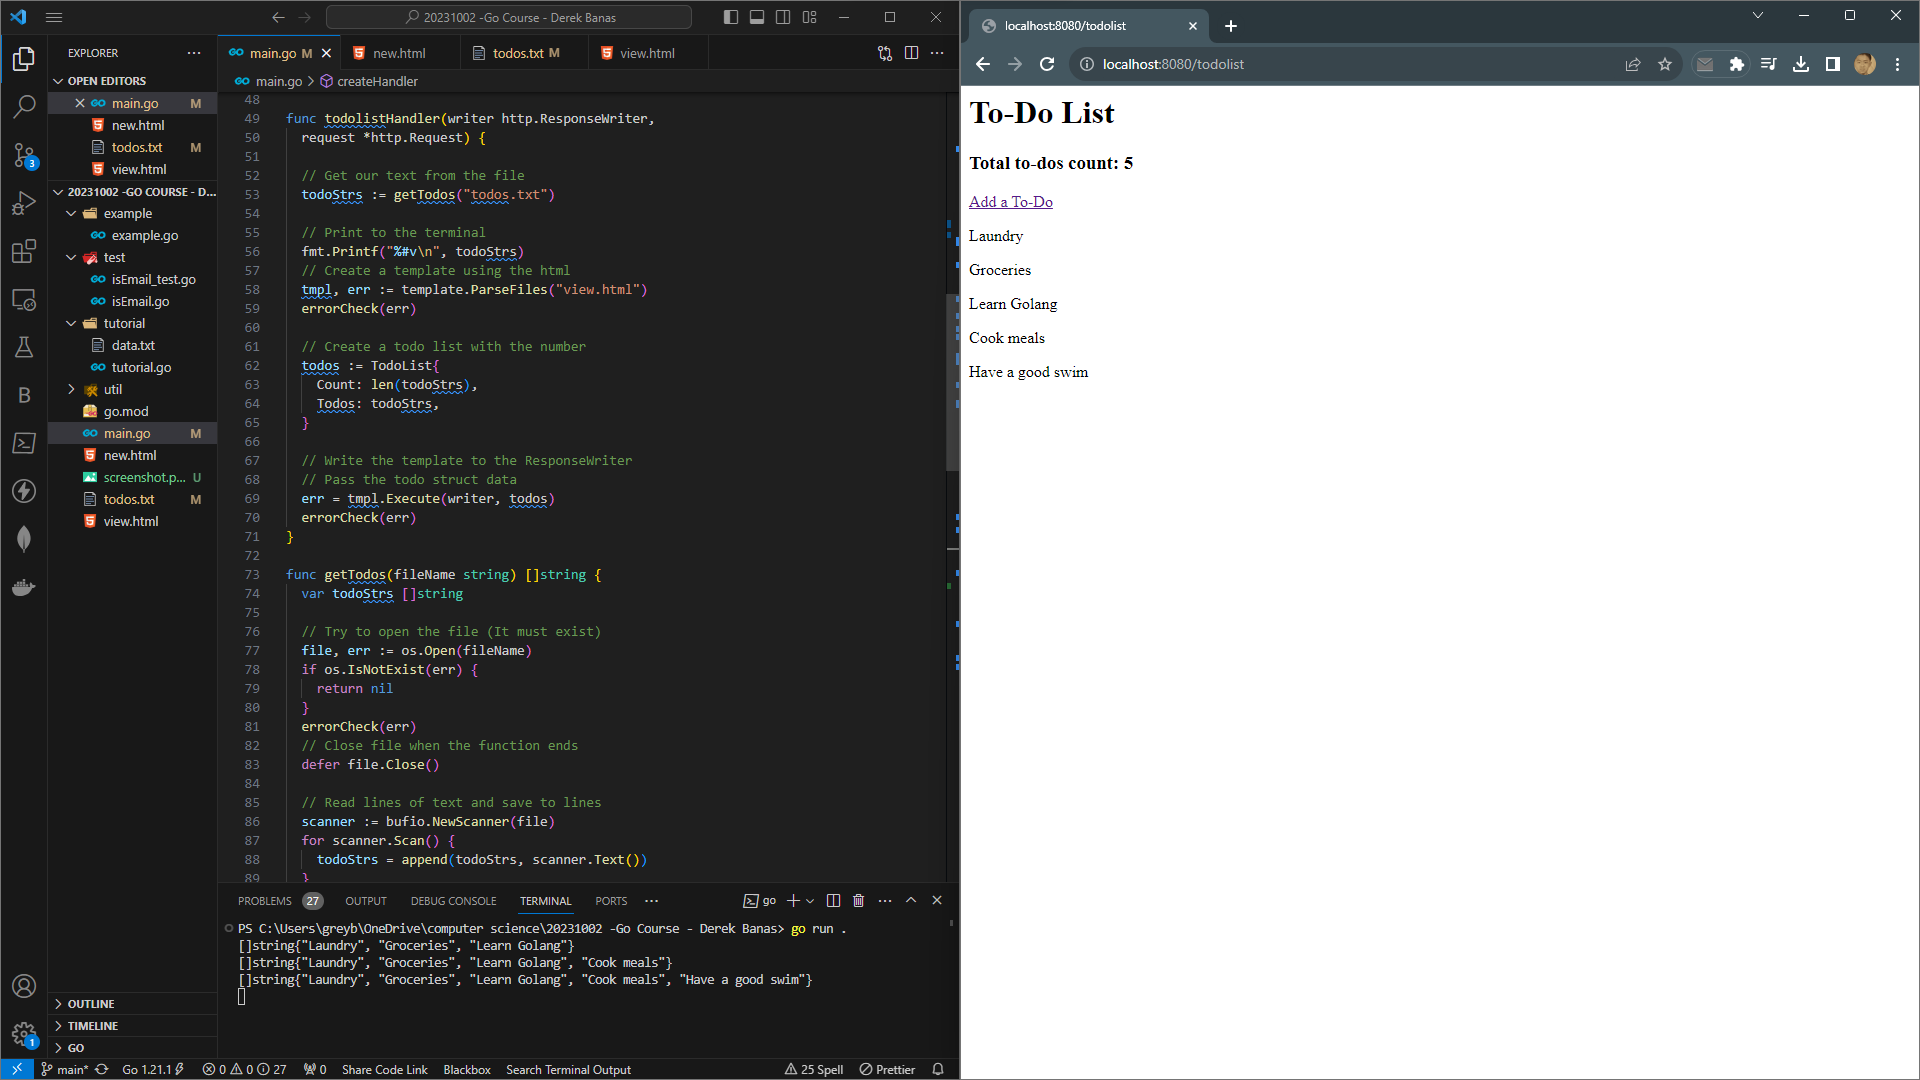
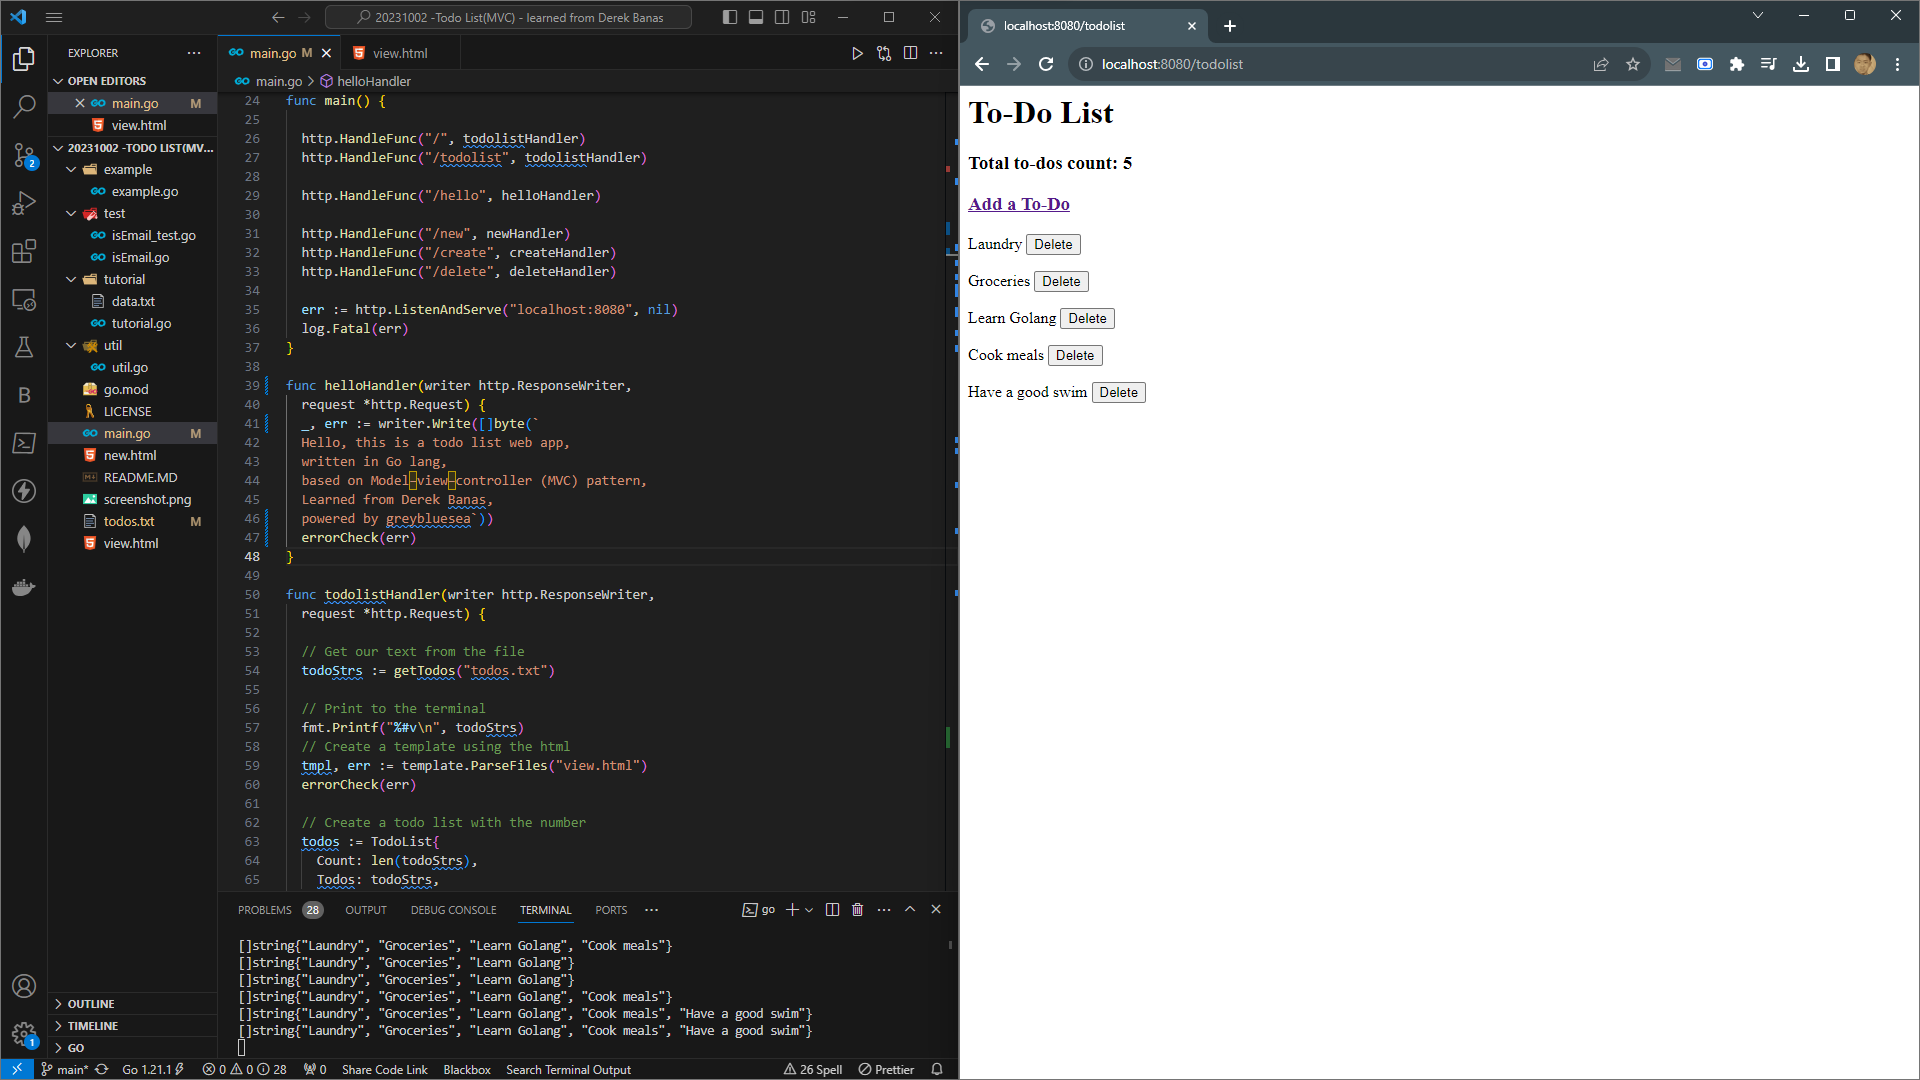
delete feature added

diff --git a/main.go b/main.go
@@ -21,12 +21,6 @@ func errorCheck(err error) {
 	}
 }
 
-func write(resWriter http.ResponseWriter, msg string) {
-	_, err := resWriter.Write([]byte(msg))
-	errorCheck(err)
-
-}
-
 func main() {
 
 	http.HandleFunc("/", todolistHandler)
@@ -42,14 +36,15 @@ func main() {
 	log.Fatal(err)
 }
 
-func helloHandler(resWriter http.ResponseWriter,
+func helloHandler(writer http.ResponseWriter,
 	request *http.Request) {
-	write(resWriter, `
+	_, err := writer.Write([]byte(`
 	Hello, this is a todo list web app,
 	written in Go lang,
 	based on Model–view–controller (MVC) pattern,
 	Learned from Derek Banas,
-	powered by greybluesea`)
+	powered by greybluesea`))
+	errorCheck(err)
 }
 
 func todolistHandler(writer http.ResponseWriter,
@@ -185,3 +180,9 @@ func writeTodos(fileName string, todos []string) error {
 	}
 	return nil
 }
+
+/* func castAndWrite(writer http.ResponseWriter, msg string) {
+	_, err := writer.Write([]byte(msg))
+	errorCheck(err)
+
+} */

diff --git a/README.MD b/README.MD
@@ -4,4 +4,4 @@
 - based on Model–view–controller (MVC) pattern
 - Learned from Derek Banas, powered by greybluesea
 
-Youtube: [https://youtu.be/6kLNaPp-zjg](https://youtu.be/6kLNaPp-zjg)
+Youtube: [https://www.youtube.com/watch?v=ShsQheow0VM](https://www.youtube.com/watch?v=ShsQheow0VM)
